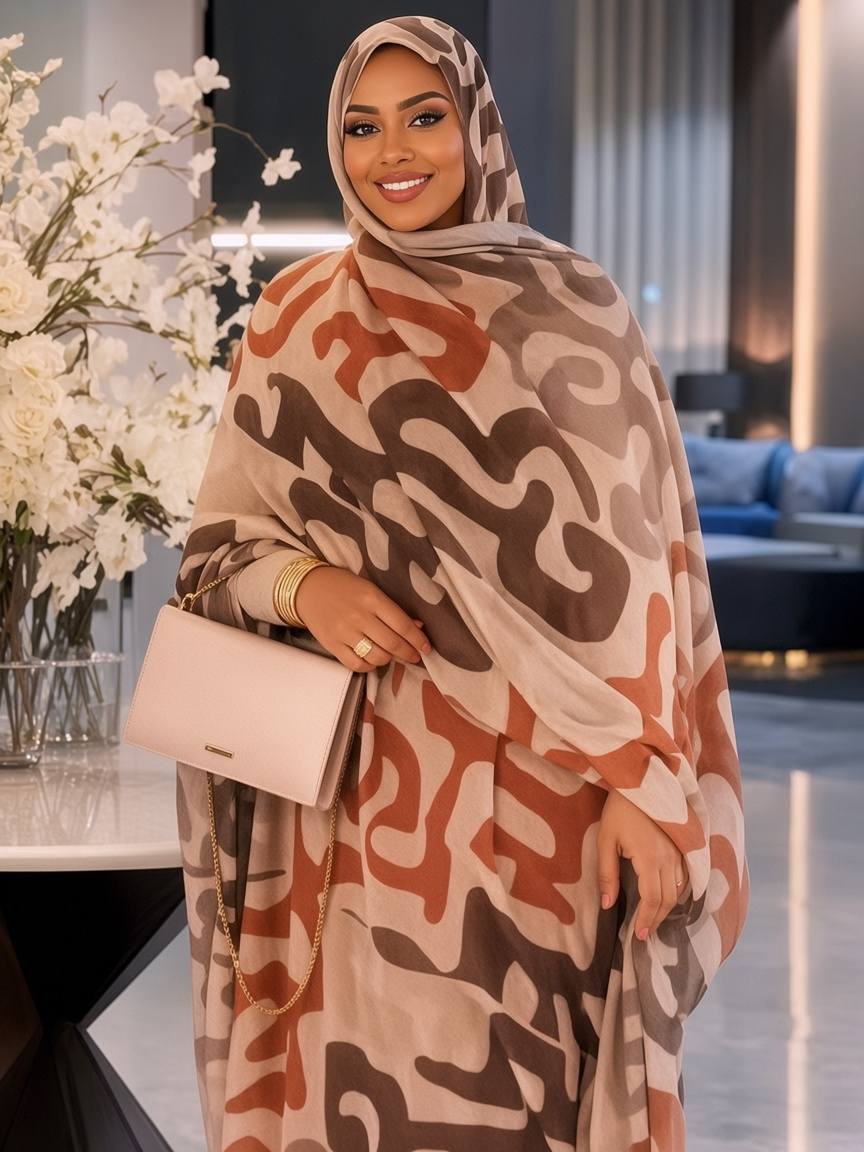
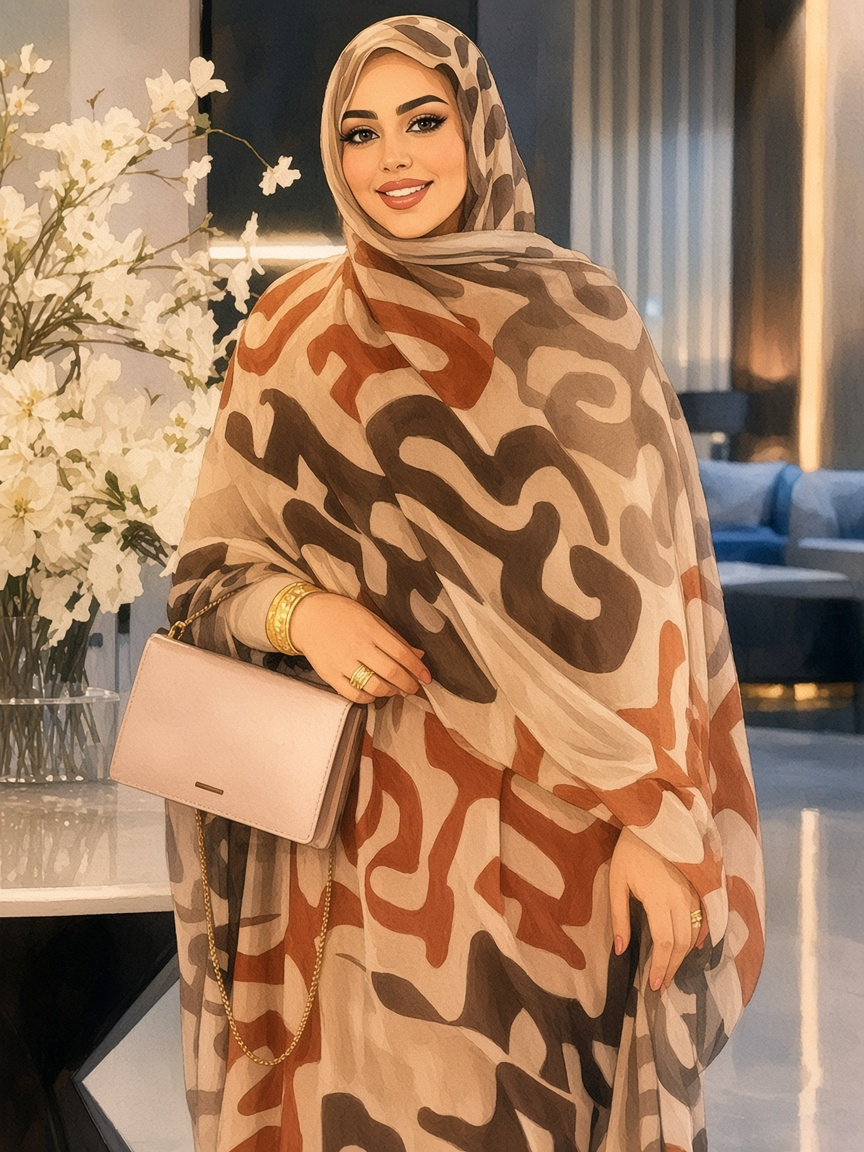
Honor latest user feedback: Mauritanian painterly Melhafa/Daraa, not photos.
User rejected non-Mauritanian / unsuitable demos («ليست موريتانية عربية») and
asked for authentic melhafa/daraa Maghrebi look with fictional non-real faces
(not photoreal people, not anime). Soft illustrated scenes + fashion ?v11.

diff --git a/rizq_ad_cards.js b/rizq_ad_cards.js
@@ -383,7 +383,7 @@
   /** ألبومات تجريبية — صور عمودية فاخرة مطابقة للنموذج */
   function seedDemoGalleries(list) {
     if (!list || !list.length) return;
-    var fashionV = 'v10'; /* صور المستخدم الأصلية بوجوه مختلفة فقط — لا تُستبدل برسوم */
+    var fashionV = 'v11'; /* طلب المستخدم: مظهر موريتاني عربي ملحفة/دراعة — وجوه مرسومة خيالية ليست صور أشخاص */
     var fashion = {
       melhafaStreet: 'rizq-assets/demo-fashion/demo-melhafa-street-dark.jpg?' + fashionV,
       melhafaShop: 'rizq-assets/demo-fashion/demo-melhafa-shop-warm.jpg?' + fashionV,
